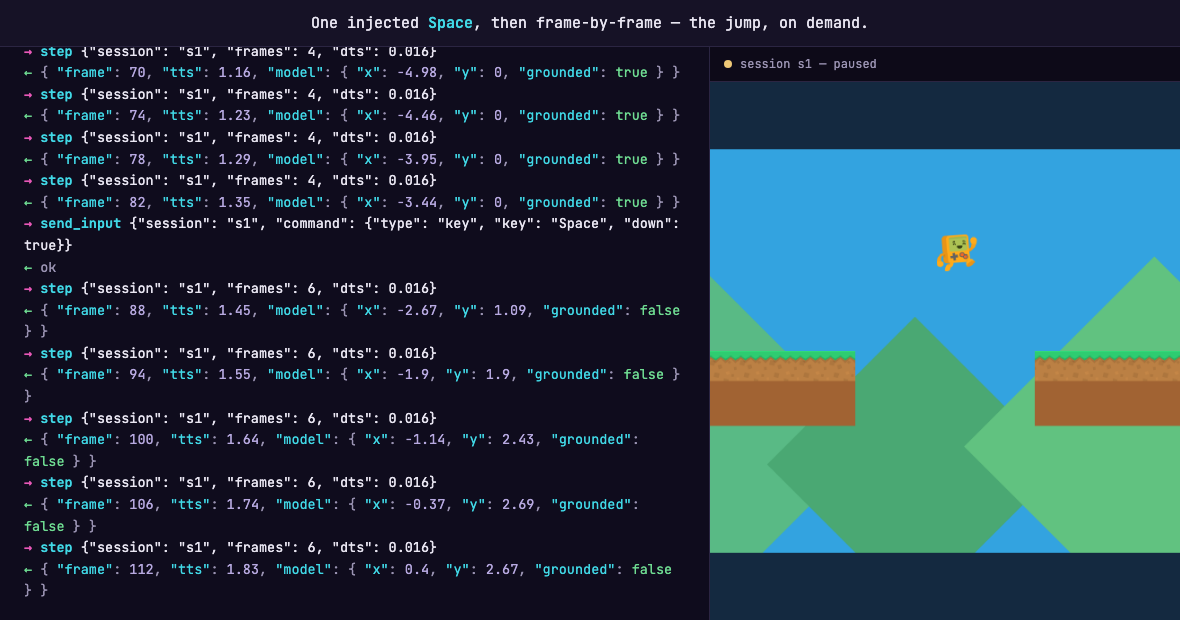
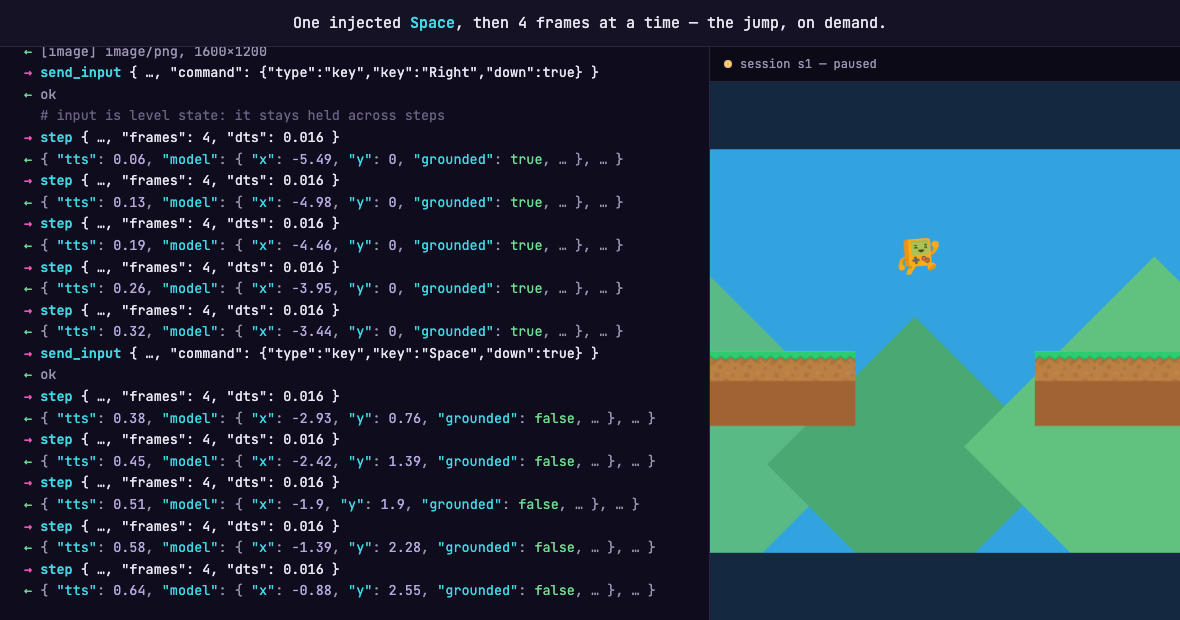
docs(site): address xreview findings on the MCP demo capture
Both engines flagged the reproducibility claim: `pause` without an explicit
tts pins the clock wherever wall-clock had reached, and mario picks its walk
frame from tts — so poses, not just counters, could drift between captures.
Pin at `tts: 0`; the still is now byte-identical across runs. Both also
flagged that nothing was cleaned up on the failure path, so the shot list
runs in a try/finally that stops the game, closes the browser, ends the
server and removes the frame directory.

Plus, from one engine each: the shown `capture_frame` had no `←` line (it
read as a call that hung); "frame-by-frame" was wrong for 4-frame `step`
batches (caption, README and card alt text now say so); the image was
screenshotted without awaiting decode; the webfont was not awaited; a custom
output path not ending in .gif would have overwritten the GIF with the PNG;
`answer`'s keys argument was dead at two call sites and crashed at the other
two; and the JUMP_FROM comment described a margin the run did not have.

The transcript is also easier to read at the size it ships: every call after
the launch elides its repeated `"session"` to a `…` (explained by a note in
the transcript itself), and the abridged `/state` line marks what it trimmed
the same way, so no line wraps.

diff --git a/site/index.html b/site/index.html
@@ -169,7 +169,7 @@
             <div class="feature-media">
               <img
                 src="media/feature-mcp-drive.gif"
-                alt="An MCP client launching a game, pausing it, injecting a keypress, and stepping a jump frame by frame while reading the model back as JSON"
+                alt="An MCP client launching a game, pausing it, injecting a keypress, and stepping a jump four frames at a time while reading the model back as JSON"
                 loading="lazy"
               />
             </div>

diff --git a/README.md b/README.md
@@ -53,7 +53,7 @@ any coding agent can build, run, inspect, and rewind your game — real Functor 
 scaffold a project, launch it, iterate on it, and save it to disk entirely through the server, with
 no filesystem of its own.
 
-![An MCP client launching examples/mario, pausing it, injecting a keypress, and stepping the jump frame by frame while reading the model back as JSON](site/media/feature-mcp-drive.gif)
+![An MCP client launching examples/mario, pausing it, injecting a keypress, and stepping the jump four frames at a time while reading the model back as JSON](site/media/feature-mcp-drive.gif)
 
 ```sh
 claude mcp add functor -- functor mcp
